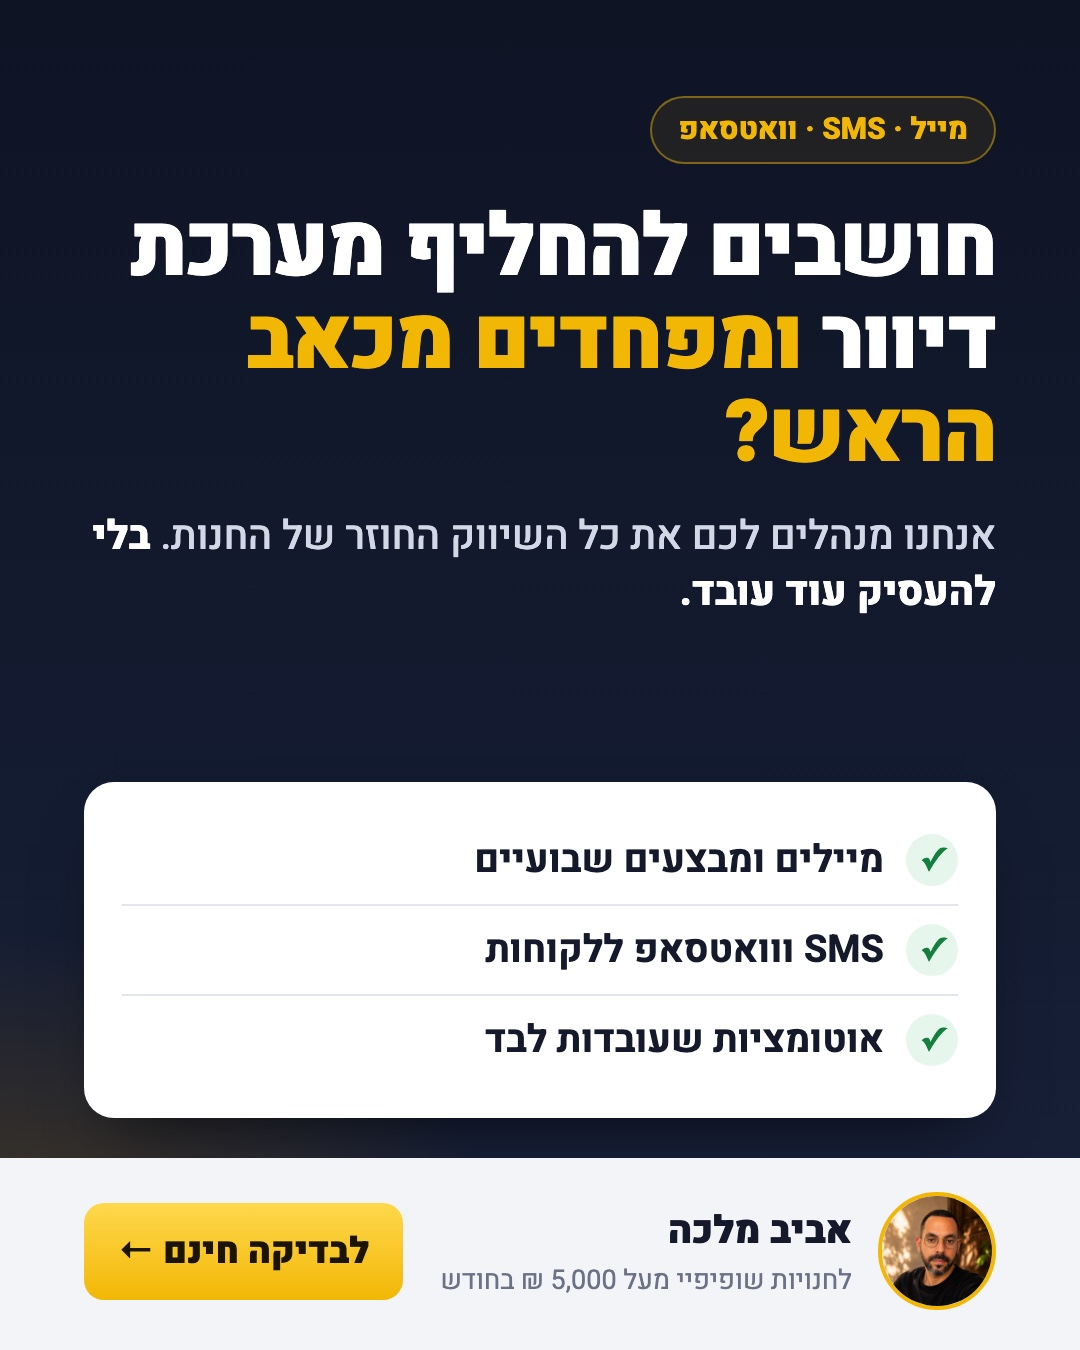
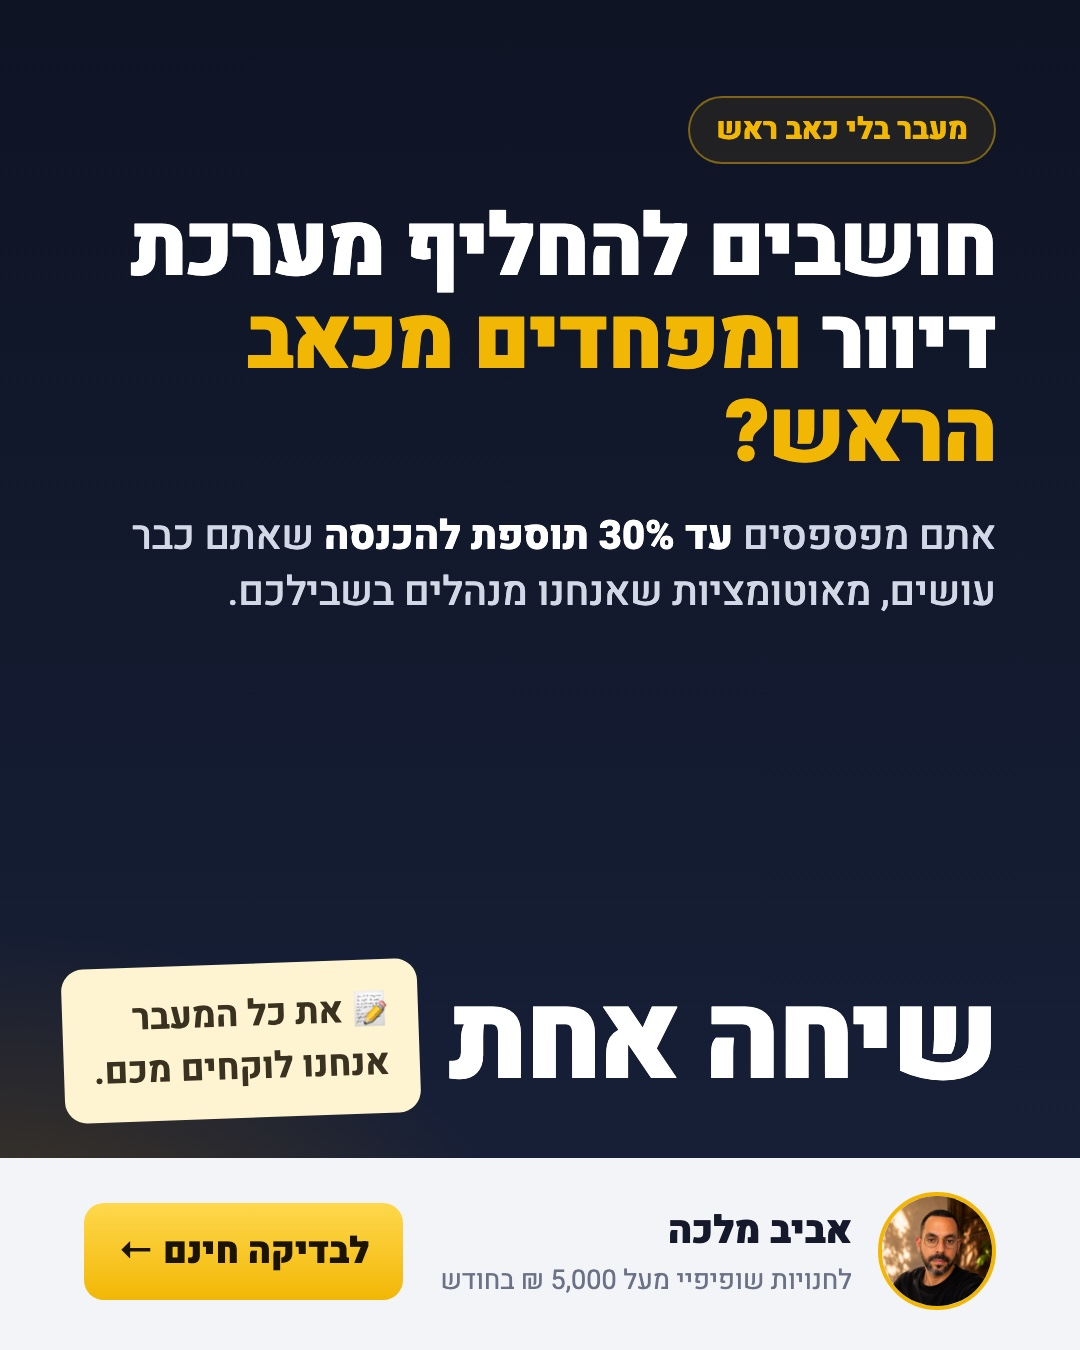
backend v2 ads: D style + 30% message on A-F, 4 new variants G-J

Changed region(s): [[0.0306, 0.56, 0.9472, 0.84], [0.0917, 0.3733, 0.9167, 0.4667], [0.6111, 0.0622, 0.8861, 0.1244]]

diff --git a/king/ads2/ads.html b/king/ads2/ads.html
@@ -36,7 +36,7 @@ h1 em{font-style:normal;color:var(--gold)}
 .in{background:#fff;align-self:flex-start;border-top-right-radius:6px}
 .out{background:#D9FDD3;align-self:flex-end;border-top-left-radius:6px}
 .clock{display:flex;align-items:center;gap:30px}
-.clock .t{font-size:150px;font-weight:900;letter-spacing:-.03em;color:#fff;line-height:1}
+.clock .t{white-space:nowrap;direction:ltr;font-size:150px;font-weight:900;letter-spacing:-.03em;color:#fff;line-height:1}
 .note{background:#FFF4D1;color:#3a3220;border-radius:22px;padding:24px 30px;font-size:36px;font-weight:700;transform:rotate(-2deg)}
 .lst .r{display:flex;justify-content:space-between;align-items:center;font-size:34px;padding:14px 0;color:var(--ink)}
 .lst .r+.r{border-top:2px solid var(--line)}
@@ -46,78 +46,106 @@ h1 em{font-style:normal;color:var(--gold)}
 .flow .card{flex:1;text-align:center;font-size:36px;font-weight:800;padding:30px 20px}
 .flow .ar{font-size:60px;color:var(--gold);font-weight:900}
 .old{opacity:.7;text-decoration:line-through;text-decoration-thickness:4px}
+
+.sub2{margin-top:24px;font-size:38px;line-height:1.4;color:#D3D8E6;font-weight:500}.sub2 b{color:#fff;font-weight:800}
+.proof{margin-top:auto;background:#fff;border-radius:28px;padding:22px;box-shadow:0 30px 60px -30px rgba(0,0,0,.8)}
+.proof img{display:block;width:100%;border-radius:14px}
+.proof p{color:#6B7287;font-size:24px;margin-top:12px;font-weight:600}
+.face{position:absolute;left:0;bottom:0;width:470px;height:100%;object-fit:cover;object-position:50% 20%;-webkit-mask-image:linear-gradient(90deg,#000 55%,transparent);mask-image:linear-gradient(90deg,#000 55%,transparent)}
+.split{display:grid;grid-template-columns:1fr 1fr;gap:20px;margin-top:auto}
+.split .col{border-radius:28px;padding:30px 28px}
+.split .b4{background:rgba(255,255,255,.06);border:2px solid rgba(255,255,255,.14)}
+.split .af{background:#fff;color:#141A2B}
+.split h3{font-size:30px;font-weight:900;margin-bottom:14px}
+.split .b4 h3{color:#AEB4C6}.split .af h3{color:#15803d}
+.split li{list-style:none;font-size:31px;line-height:1.3;padding:10px 0;font-weight:600}
+.split .b4 li{color:#C9CEDD}.split .af li+li,.split .b4 li+li{border-top:2px solid rgba(127,127,127,.2)}
+.ntf{margin-top:auto;display:flex;flex-direction:column;gap:16px}
+.ntf .lab{color:#AEB4C6}
+.nt{display:flex;gap:20px;align-items:center;background:rgba(255,255,255,.95);color:#141A2B;border-radius:26px;padding:22px 26px;box-shadow:0 20px 40px -24px rgba(0,0,0,.8)}
+.nt i{font-style:normal;width:64px;height:64px;border-radius:16px;background:#95BF47;color:#fff;display:flex;align-items:center;justify-content:center;font-size:36px;flex:none}
+.nt b{display:block;font-size:31px}.nt span{display:block;font-size:25px;color:#6B7287}
 </style>
 </head>
 <body>
 
-<!-- A: fear of switching -->
 <div class="ab" id="A"><div class="top">
-  <span class="kick">מייל · SMS · וואטסאפ</span>
+  <span class="kick">מעבר בלי כאב ראש</span>
   <h1>חושבים להחליף מערכת דיוור <em>ומפחדים מכאב הראש?</em></h1>
-  <p class="sub">אנחנו מנהלים לכם את כל השיווק החוזר של החנות. <b>בלי להעסיק עוד עובד.</b></p>
-  <div class="vis card">
-    <div class="row"><span class="ck">✓</span>מיילים ומבצעים שבועיים</div>
-    <div class="row"><span class="ck">✓</span>SMS ווואטסאפ ללקוחות</div>
-    <div class="row"><span class="ck">✓</span>אוטומציות שעובדות לבד</div>
-  </div>
+  <p class="sub">אתם מפספסים <b>עד 30% תוספת להכנסה</b> שאתם כבר עושים, מאוטומציות שאנחנו מנהלים בשבילכם.</p>
+  <div class="vis clock"><span class="t" style="direction:rtl;font-size:120px">שיחה אחת</span><span class="note" style="white-space:nowrap">📝 את כל המעבר<br>אנחנו לוקחים מכם.</span></div>
 </div><div class="bot"><img src="../img/aviv_round.jpg"><div class="n"><b>אביב מלכה</b><span>לחנויות שופיפיי מעל 5,000 ₪ בחודש</span></div><span class="btn">לבדיקה חינם ←</span></div></div>
 
-<!-- B: agency cost -->
 <div class="ab" id="B"><div class="top">
-  <span class="kick">בלי עלות</span>
-  <h1>לא רוצים לשלם לסוכנות <em>לפני שרואים משהו?</em></h1>
-  <p class="sub">מתחילים מבדיקה חינם של החנות. <b>אני עובר עליה בעצמי.</b></p>
-  <div class="vis card">
-    <p class="lab">מה מקבלים בבדיקה</p>
-    <div class="row"><span class="ck">✓</span>מה עובד היום</div>
-    <div class="row"><span class="ck">✓</span>מה חסר</div>
-    <div class="row"><span class="ck">✓</span>מה הייתי מפעיל קודם</div>
-  </div>
+  <span class="kick">תוספת להכנסה</span>
+  <h1>כמה כסף נשאר אצלכם <em>על הרצפה כל חודש?</em></h1>
+  <p class="sub">אתם מפספסים <b>עד 30% תוספת להכנסה</b> שאתם כבר עושים, מאוטומציות שאנחנו מנהלים בשבילכם.</p>
+  <div class="vis clock"><span class="t">+30%</span><span class="note">📝 מייל, SMS ווואטסאפ<br>שעובדים גם כשאתם ישנים.</span></div>
 </div><div class="bot"><img src="../img/aviv_round.jpg"><div class="n"><b>אביב מלכה</b><span>לחנויות שופיפיי מעל 5,000 ₪ בחודש</span></div><span class="btn">לבדיקה חינם ←</span></div></div>
 
-<!-- C: one-time buyers -->
 <div class="ab" id="C"><div class="top">
   <span class="kick">שאלה לבעלי חנויות</span>
   <h1>כמה לקוחות קנו אצלכם פעם אחת, <em>ומאז שקט?</em></h1>
-  <p class="sub">בדיקה חינם תראה לכם <b>כמה כסף יושב ברשימה</b> שלא נוגעים בה.</p>
-  <div class="vis card lst">
-    <p class="lab">המחשה</p>
-    <div class="r"><b>דנה כ.</b><span>קנתה פעם אחת · לפני 7 חודשים</span></div>
-    <div class="r"><b>יוסי ל.</b><span>קנה פעם אחת · לפני 11 חודשים</span></div>
-    <div class="r"><b>מיכל ש.</b><span>נרשמה · עוד לא קנתה</span></div>
-  </div>
+  <p class="sub">אתם מפספסים <b>עד 30% תוספת להכנסה</b> שאתם כבר עושים, מאוטומציות שאנחנו מנהלים בשבילכם.</p>
+  <div class="vis clock"><span class="t">1×</span><span class="note">📝 קנו פעם אחת…<br>ומאז לא שמעו מכם.</span></div>
 </div><div class="bot"><img src="../img/aviv_round.jpg"><div class="n"><b>אביב מלכה</b><span>לחנויות שופיפיי מעל 5,000 ₪ בחודש</span></div><span class="btn">לבדיקה חינם ←</span></div></div>
 
-<!-- D: day in the life -->
 <div class="ab" id="D"><div class="top">
   <span class="kick">יום רגיל בחנות</span>
   <h1>כל היום אורזים הזמנות, <em>ורק בלילה נזכרים בניוזלטר.</em></h1>
-  <p class="sub">אצלנו זה התפקיד שלנו: <b>מייל, SMS ווואטסאפ כל שבוע</b>, ובוט שעונה ללקוחות.</p>
+  <p class="sub">אתם מפספסים <b>עד 30% תוספת להכנסה</b> שאתם כבר עושים, מאוטומציות שאנחנו מנהלים בשבילכם.</p>
   <div class="vis clock"><span class="t">23:40</span><span class="note">📝 לשלוח מבצע ללקוחות…<br>מחר. בטוח מחר.</span></div>
 </div><div class="bot"><img src="../img/aviv_round.jpg"><div class="n"><b>אביב מלכה</b><span>לחנויות שופיפיי מעל 5,000 ₪ בחודש</span></div><span class="btn">לבדיקה חינם ←</span></div></div>
 
-<!-- E: customer service bot -->
 <div class="ab" id="E"><div class="top">
   <span class="kick">בוט שירות לקוחות</span>
   <h1>לקוחות שואלים בוואטסאפ <em>גם בעשר בלילה.</em></h1>
-  <p class="sub">בוט מבוסס AI עונה במקומכם, <b>ואנחנו מפעילים אותו</b> כחלק מהניהול.</p>
-  <div class="vis chat">
-    <p class="lab" style="color:#556">שיחה לדוגמה</p>
-    <div class="bub in">היי, איפה ההזמנה שלי? 🙏<small>22:04</small></div>
-    <div class="bub out">היי! ההזמנה יצאה אתמול. הנה הקישור למעקב 📦<small>22:04</small></div>
-  </div>
+  <p class="sub">אתם מפספסים <b>עד 30% תוספת להכנסה</b> שאתם כבר עושים, מאוטומציות שאנחנו מנהלים בשבילכם.</p>
+  <div class="vis clock"><span class="t">22:04</span><span class="note">💬 "איפה ההזמנה שלי?"<br>הבוט כבר ענה.</span></div>
 </div><div class="bot"><img src="../img/aviv_round.jpg"><div class="n"><b>אביב מלכה</b><span>לחנויות שופיפיי מעל 5,000 ₪ בחודש</span></div><span class="btn">לבדיקה חינם ←</span></div></div>
 
-<!-- F: black friday -->
 <div class="ab" id="F"><div class="top">
   <span class="kick">בלאק פריידיי מתקרב</span>
   <h1>מבצע בלי מייל, SMS ווואטסאפ מוכנים <em>זה תקציב שהולך לפח.</em></h1>
-  <p class="sub">בואו נבדוק עכשיו, בחינם, <b>מה מוכן אצלכם ומה חסר.</b></p>
-  <div class="vis card">
-    <p class="lab">מוכנים לבלאק פריידיי?</p>
-    <div class="row"><span class="bx"></span>מייל ללקוחות קודמים</div>
-    <div class="row"><span class="bx"></span>SMS ביום המבצע</div>
-    <div class="row"><span class="bx"></span>וואטסאפ לעגלות נטושות</div>
+  <p class="sub">אתם מפספסים <b>עד 30% תוספת להכנסה</b> שאתם כבר עושים, מאוטומציות שאנחנו מנהלים בשבילכם.</p>
+  <div class="vis clock"><span class="t">27.11</span><span class="note">📝 מייל, SMS, וואטסאפ…<br>מוכנים? לא בטוח.</span></div>
+</div><div class="bot"><img src="../img/aviv_round.jpg"><div class="n"><b>אביב מלכה</b><span>לחנויות שופיפיי מעל 5,000 ₪ בחודש</span></div><span class="btn">לבדיקה חינם ←</span></div></div>
+
+
+<!-- G: real proof -->
+<div class="ab" id="G"><div class="top">
+  <span class="kick">מהחנות שלי</span>
+  <h1>1.27 מיליון דולר <em>רק מהודעות טקסט.</em></h1>
+  <p class="sub2">את אותו מנוע של מייל, SMS ווואטסאפ <b>אנחנו מנהלים לחנויות שופיפיי.</b> בלעדיו אתם מפספסים עד 30% תוספת להכנסה.</p>
+  <div class="proof"><div style="overflow:hidden;border-radius:14px;direction:ltr"><img src="../img/p_sms.jpg" style="width:150%;max-width:none;border-radius:0"></div><p>צילום מסך ממערכת ה-SMS של החנות שאני מנהל</p></div>
+</div><div class="bot"><img src="../img/aviv_round.jpg"><div class="n"><b>אביב מלכה</b><span>לחנויות שופיפיי מעל 5,000 ₪ בחודש</span></div><span class="btn">לבדיקה חינם ←</span></div></div>
+
+<!-- H: Aviv's face + quote -->
+<div class="ab" id="H"><div class="top" style="padding-left:430px;position:relative"><img class="face" src="../img/aviv_studio.jpg">
+  <span class="kick">15 שנה באיקומרס</span>
+  <h1 style="font-size:74px">"אתם מפספסים <em>עד 30% תוספת להכנסה</em> שאתם כבר עושים."</h1>
+  <p class="sub2">מיילים שלא יוצאים, עגלות שאף אחד לא מחזיר, לקוחות שקנו פעם אחת. <b>בואו נבדוק את שלכם, בחינם.</b></p>
+</div><div class="bot"><img src="../img/aviv_round.jpg"><div class="n"><b>אביב מלכה</b><span>לחנויות שופיפיי מעל 5,000 ₪ בחודש</span></div><span class="btn">לבדיקה חינם ←</span></div></div>
+
+<!-- I: before / after -->
+<div class="ab" id="I"><div class="top">
+  <span class="kick">מייל · SMS · וואטסאפ</span>
+  <h1>אותה חנות, אותם לקוחות. <em>עד 30% יותר הכנסה.</em></h1>
+  <div class="split">
+    <div class="col b4"><h3>היום</h3><ul><li>מבצע אחד בחודש, כשנזכרים</li><li>עגלות נטושות נשארות נטושות</li><li>שאלות בוואטסאפ מחכות לבוקר</li></ul></div>
+    <div class="col af"><h3>✓ עם ניהול שלנו</h3><ul><li>מייל, SMS ווואטסאפ כל שבוע</li><li>אוטומציות שמחזירות קונים</li><li>בוט שעונה ללקוחות מיד</li></ul></div>
+  </div>
+</div><div class="bot"><img src="../img/aviv_round.jpg"><div class="n"><b>אביב מלכה</b><span>לחנויות שופיפיי מעל 5,000 ₪ בחודש</span></div><span class="btn">לבדיקה חינם ←</span></div></div>
+
+<!-- J: notifications -->
+<div class="ab" id="J"><div class="top">
+  <span class="kick">בזמן שאתם ישנים</span>
+  <h1>הזמנות שמגיעות <em>מלקוחות שכבר קנו פעם.</em></h1>
+  <p class="sub2">אוטומציות שאנחנו מנהלים בשבילכם מוסיפות <b>עד 30% להכנסה שאתם כבר עושים.</b></p>
+  <div class="ntf"><p class="lab">המחשה</p>
+    <div class="nt"><i>🛍</i><div><b>הזמנה חדשה · 02:13</b><span>חזרה מתזכורת עגלה נטושה בוואטסאפ</span></div></div>
+    <div class="nt"><i>🛍</i><div><b>הזמנה חדשה · 06:40</b><span>לקוחה חוזרת, אחרי מייל "חסר לנו אותך"</span></div></div>
+    <div class="nt"><i>🛍</i><div><b>הזמנה חדשה · 08:05</b><span>מ-SMS המבצע של הבוקר</span></div></div>
   </div>
 </div><div class="bot"><img src="../img/aviv_round.jpg"><div class="n"><b>אביב מלכה</b><span>לחנויות שופיפיי מעל 5,000 ₪ בחודש</span></div><span class="btn">לבדיקה חינם ←</span></div></div>
 
